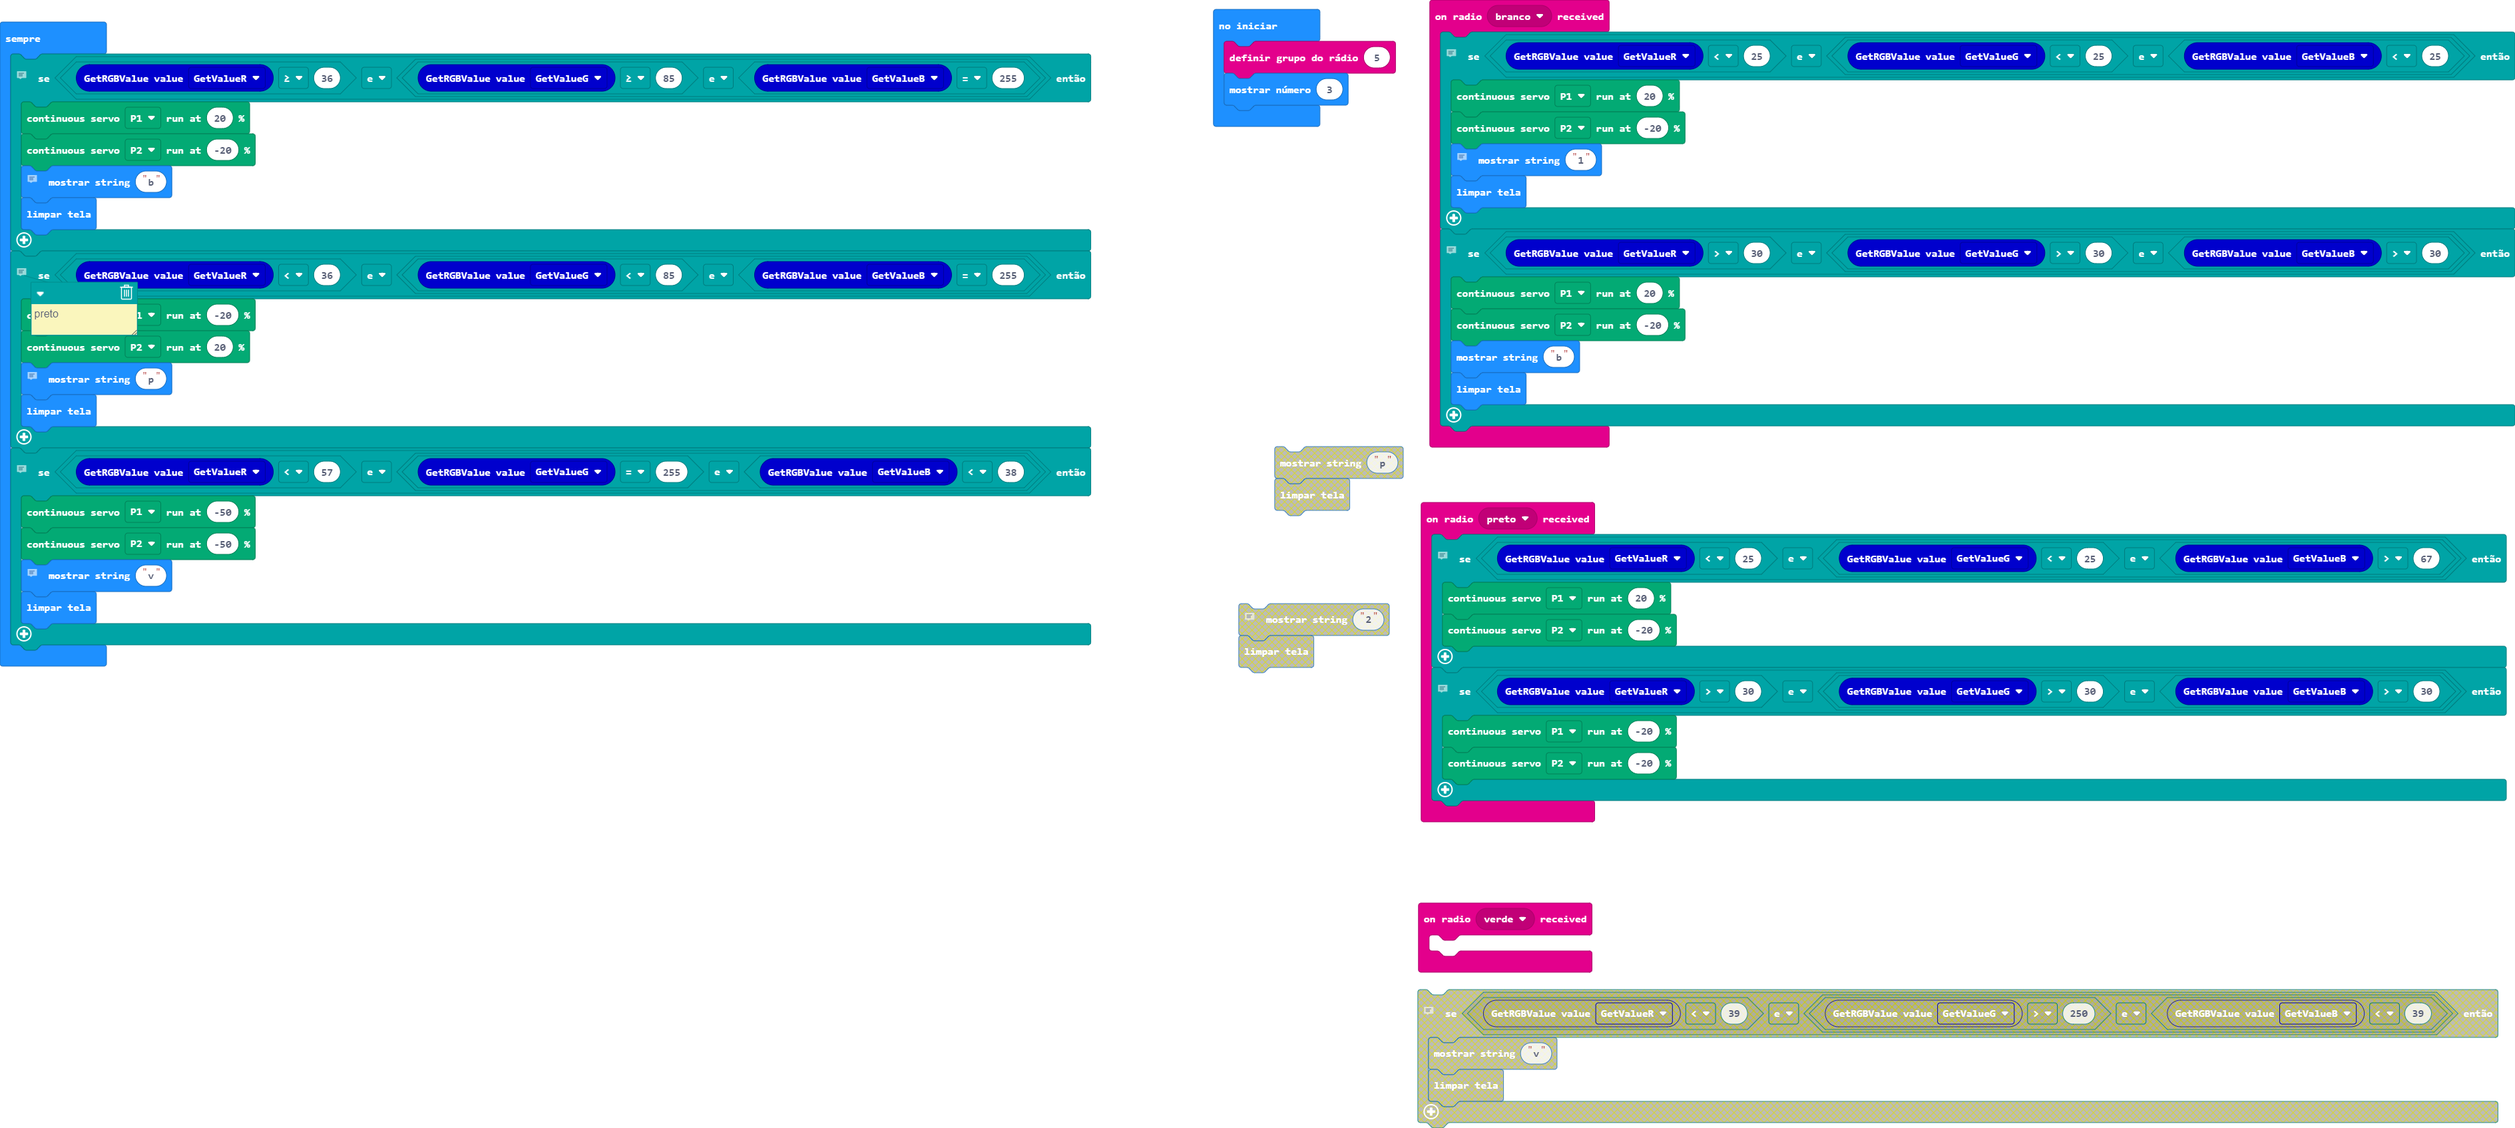
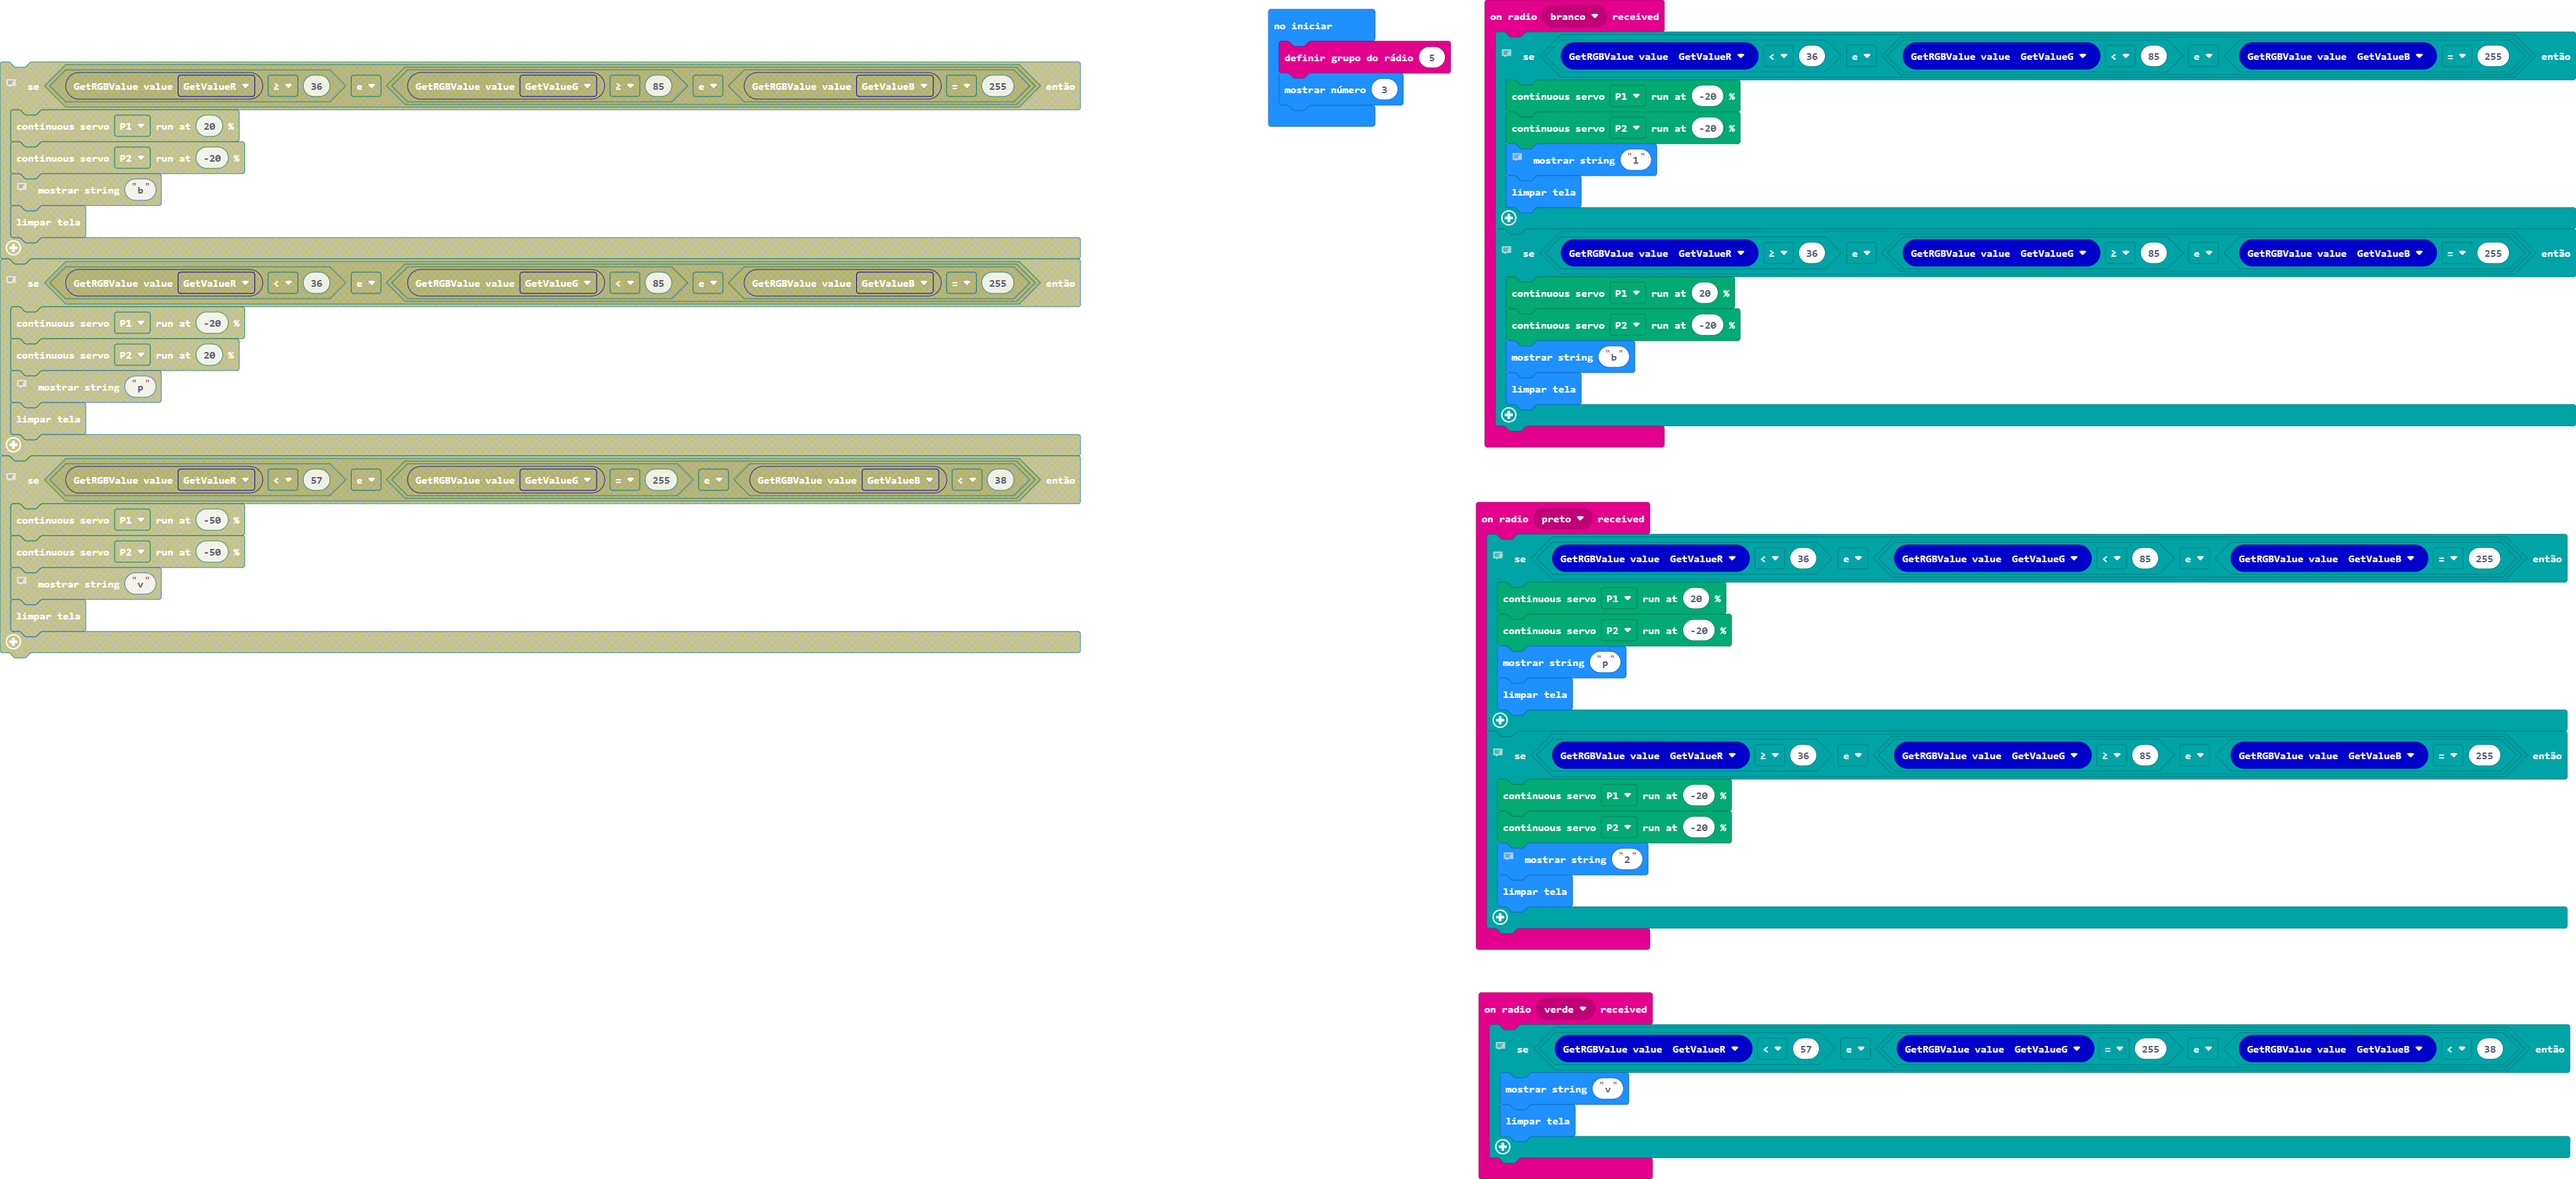
Atualizar 'pxt.json, main.blocks, main.ts'

diff --git a/main.ts b/main.ts
@@ -5,19 +5,23 @@ enum RadioMessage {
     verde = 14709
 }
 radio.onReceivedMessage(RadioMessage.verde, function () {
-	
+    // Preto e verde
+    if (Module_World_Color.GetRGBValue(Module_World_Color.enGetRGB.GetValueR) < 57 && (Module_World_Color.GetRGBValue(Module_World_Color.enGetRGB.GetValueG) == 255 && Module_World_Color.GetRGBValue(Module_World_Color.enGetRGB.GetValueB) < 38)) {
+        basic.showString("v")
+        basic.clearScreen()
+    }
 })
 radio.onReceivedMessage(RadioMessage.branco, function () {
     // Branco e preto
-    if (Module_World_Color.GetRGBValue(Module_World_Color.enGetRGB.GetValueR) < 25 && (Module_World_Color.GetRGBValue(Module_World_Color.enGetRGB.GetValueG) < 25 && Module_World_Color.GetRGBValue(Module_World_Color.enGetRGB.GetValueB) < 25)) {
-        servos.P1.run(20)
+    if (Module_World_Color.GetRGBValue(Module_World_Color.enGetRGB.GetValueR) < 36 && (Module_World_Color.GetRGBValue(Module_World_Color.enGetRGB.GetValueG) < 85 && Module_World_Color.GetRGBValue(Module_World_Color.enGetRGB.GetValueB) == 255)) {
+        servos.P1.run(-20)
         servos.P2.run(-20)
         // 1 branco preto
         basic.showString("1")
         basic.clearScreen()
     }
     // Branco e branco
-    if (Module_World_Color.GetRGBValue(Module_World_Color.enGetRGB.GetValueR) > 30 && (Module_World_Color.GetRGBValue(Module_World_Color.enGetRGB.GetValueG) > 30 && Module_World_Color.GetRGBValue(Module_World_Color.enGetRGB.GetValueB) > 30)) {
+    if (Module_World_Color.GetRGBValue(Module_World_Color.enGetRGB.GetValueR) >= 36 && (Module_World_Color.GetRGBValue(Module_World_Color.enGetRGB.GetValueG) >= 85 && Module_World_Color.GetRGBValue(Module_World_Color.enGetRGB.GetValueB) == 255)) {
         servos.P1.run(20)
         servos.P2.run(-20)
         basic.showString("b")
@@ -26,41 +30,20 @@ radio.onReceivedMessage(RadioMessage.branco, function () {
 })
 radio.onReceivedMessage(RadioMessage.preto, function () {
     // Preto e preto
-    if (Module_World_Color.GetRGBValue(Module_World_Color.enGetRGB.GetValueR) < 25 && (Module_World_Color.GetRGBValue(Module_World_Color.enGetRGB.GetValueG) < 25 && Module_World_Color.GetRGBValue(Module_World_Color.enGetRGB.GetValueB) > 67)) {
+    if (Module_World_Color.GetRGBValue(Module_World_Color.enGetRGB.GetValueR) < 36 && (Module_World_Color.GetRGBValue(Module_World_Color.enGetRGB.GetValueG) < 85 && Module_World_Color.GetRGBValue(Module_World_Color.enGetRGB.GetValueB) == 255)) {
         servos.P1.run(20)
         servos.P2.run(-20)
+        basic.showString("p")
+        basic.clearScreen()
     }
     // Preto e branco
-    if (Module_World_Color.GetRGBValue(Module_World_Color.enGetRGB.GetValueR) > 30 && (Module_World_Color.GetRGBValue(Module_World_Color.enGetRGB.GetValueG) > 30 && Module_World_Color.GetRGBValue(Module_World_Color.enGetRGB.GetValueB) > 30)) {
+    if (Module_World_Color.GetRGBValue(Module_World_Color.enGetRGB.GetValueR) >= 36 && (Module_World_Color.GetRGBValue(Module_World_Color.enGetRGB.GetValueG) >= 85 && Module_World_Color.GetRGBValue(Module_World_Color.enGetRGB.GetValueB) == 255)) {
         servos.P1.run(-20)
         servos.P2.run(-20)
+        // 2 preto branco
+        basic.showString("2")
+        basic.clearScreen()
     }
 })
 radio.setGroup(5)
 basic.showNumber(3)
-basic.forever(function () {
-    // branco
-    if (Module_World_Color.GetRGBValue(Module_World_Color.enGetRGB.GetValueR) >= 36 && (Module_World_Color.GetRGBValue(Module_World_Color.enGetRGB.GetValueG) >= 85 && Module_World_Color.GetRGBValue(Module_World_Color.enGetRGB.GetValueB) == 255)) {
-        servos.P1.run(20)
-        servos.P2.run(-20)
-        // 1 branco preto
-        basic.showString("b")
-        basic.clearScreen()
-    }
-    // preto
-    if (Module_World_Color.GetRGBValue(Module_World_Color.enGetRGB.GetValueR) < 36 && (Module_World_Color.GetRGBValue(Module_World_Color.enGetRGB.GetValueG) < 85 && Module_World_Color.GetRGBValue(Module_World_Color.enGetRGB.GetValueB) == 255)) {
-        servos.P1.run(-20)
-        servos.P2.run(20)
-        // 1 branco preto
-        basic.showString("p")
-        basic.clearScreen()
-    }
-    // preto
-    if (Module_World_Color.GetRGBValue(Module_World_Color.enGetRGB.GetValueR) < 57 && (Module_World_Color.GetRGBValue(Module_World_Color.enGetRGB.GetValueG) == 255 && Module_World_Color.GetRGBValue(Module_World_Color.enGetRGB.GetValueB) < 38)) {
-        servos.P1.run(-50)
-        servos.P2.run(-50)
-        // 1 branco preto
-        basic.showString("v")
-        basic.clearScreen()
-    }
-})
